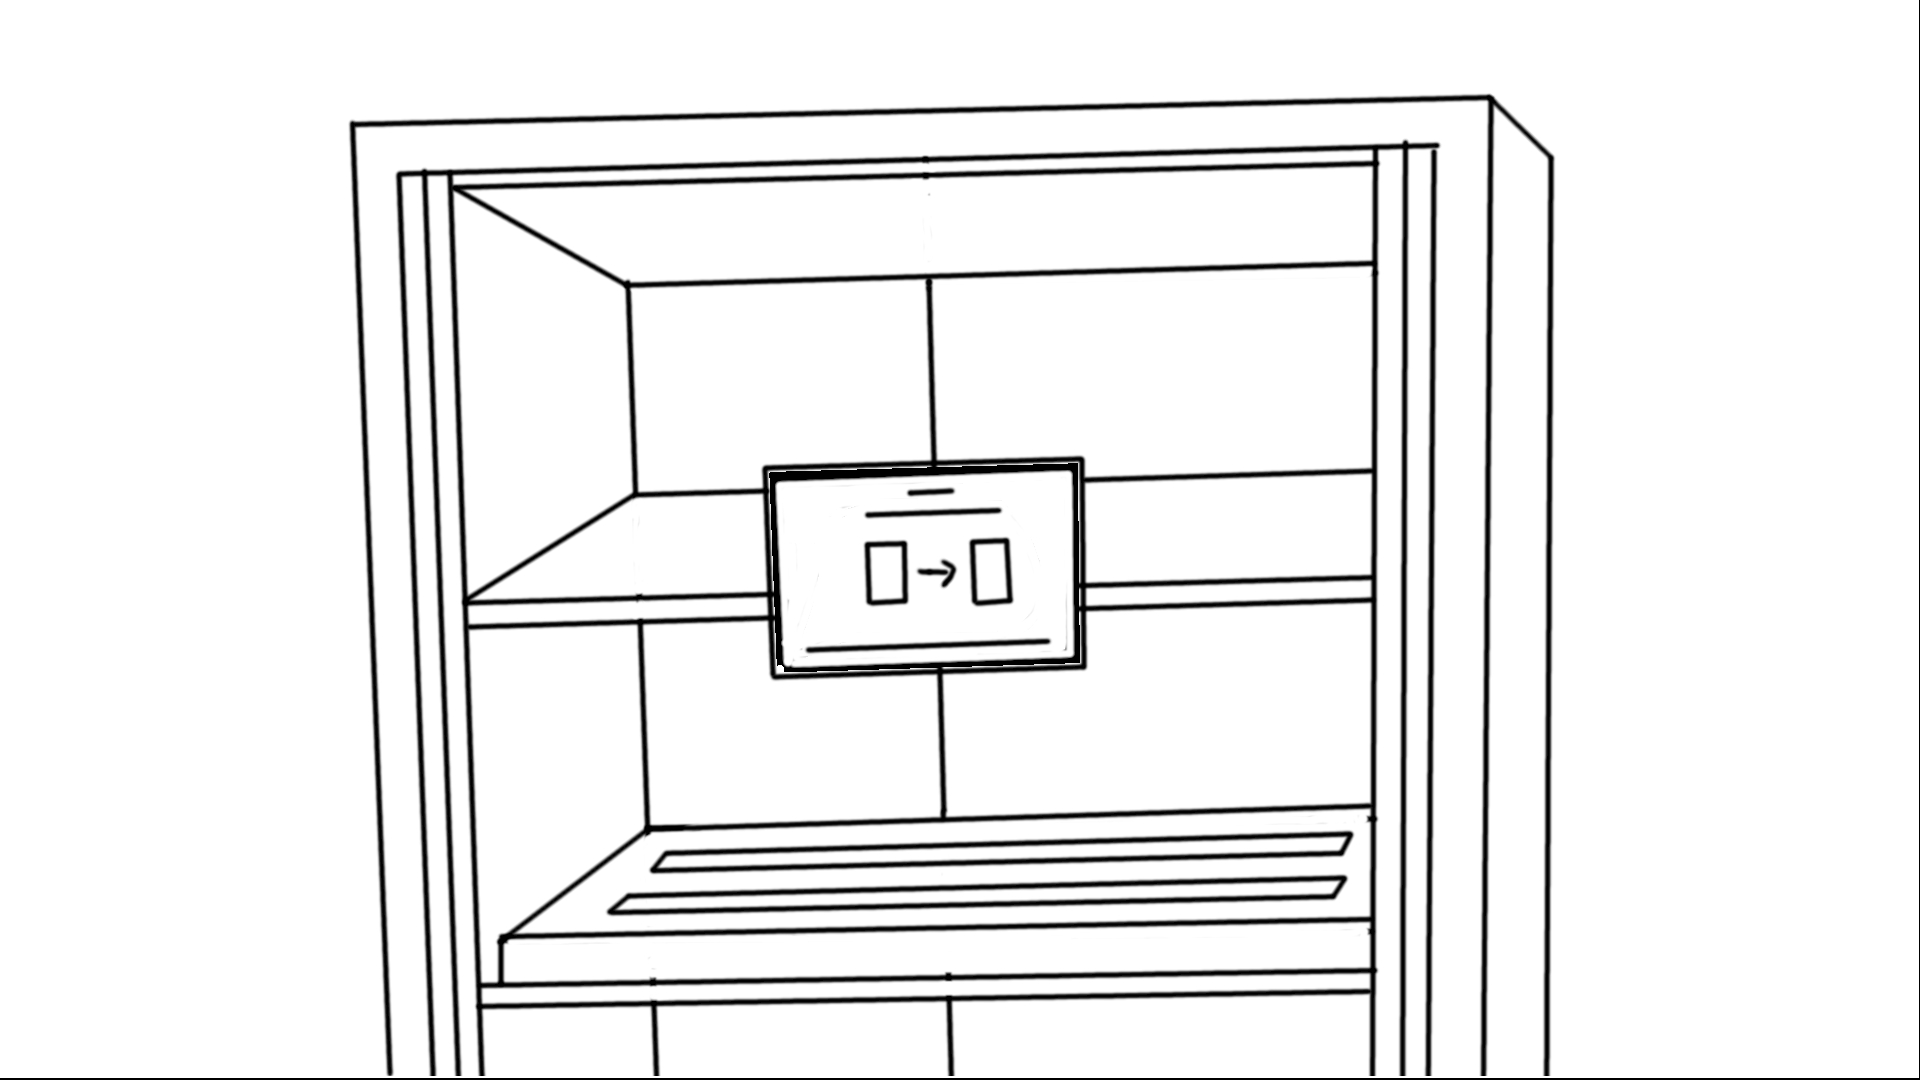
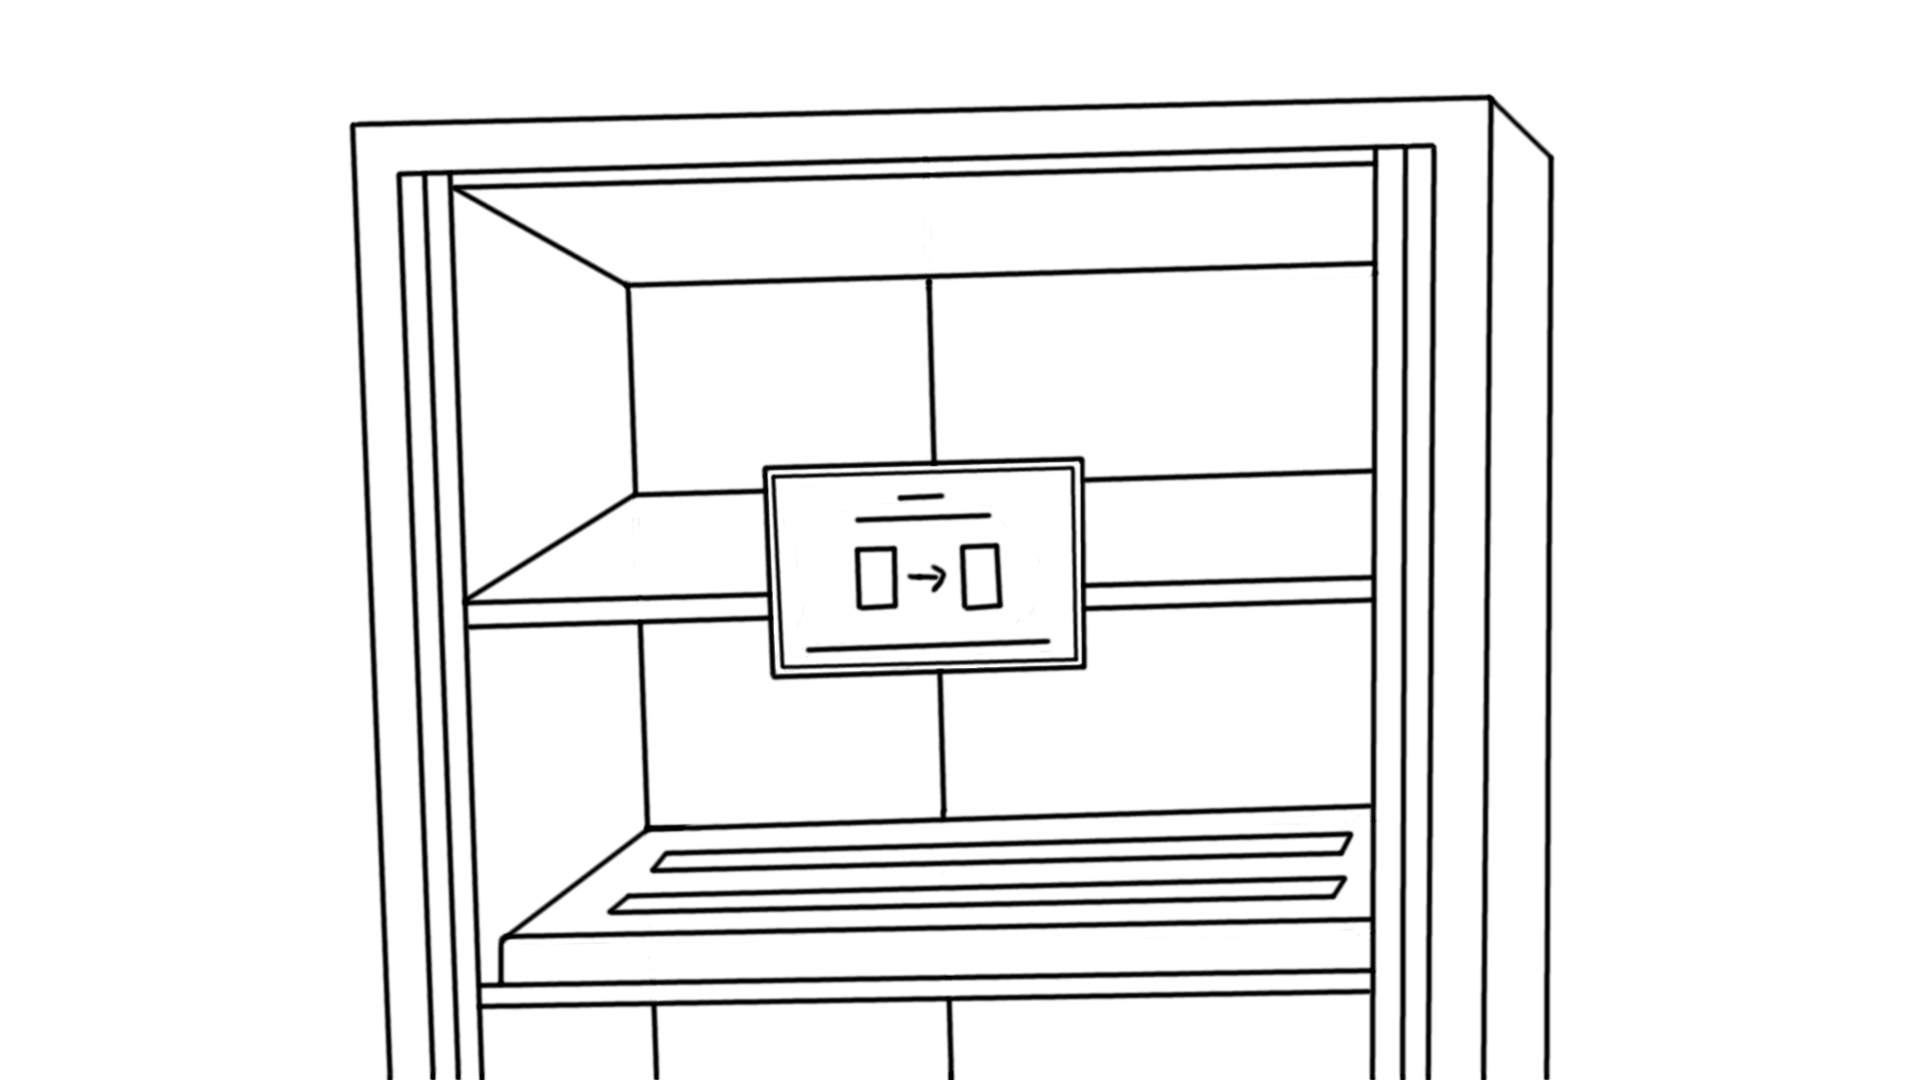
Update locker screen.

diff --git a/core/src/com/room/game/stage1/LockerScreen.kt b/core/src/com/room/game/stage1/LockerScreen.kt
@@ -25,7 +25,7 @@ class LockerScreen(
     object PhoneItem : ScreenItem(
             drawable = Drawable("locker_screen_phone.png"),
             x = 1000f,
-            y = 200f,
+            y = 208f,
             width = 134f,
             height = 123f,
             event = Event.PHONE_IN_LOCKER_CLICKED
@@ -33,19 +33,19 @@ class LockerScreen(
 
     object TabletItem : ScreenItem(
             drawable = Drawable("locker_screen_lock.png"),
-            x = 835f,
-            y = 200f,
-            width = 202f,
-            height = 278f,
+            x = 760f,
+            y = 398f,
+            width = 309f,
+            height = 244f,
             event = Event.TABLET_CLICKED
     )
 
     object LockerDoorClosed : ScreenItem(
             drawable = Drawable("locker_screen_door.png"),
-            x = 360f,
+            x = 384f,
             y = 0f,
-            width = 1104f,
-            height = 960f,
+            width = 1058f,
+            height = 948f,
             event = Event.LOCKER_DOOR_CLICKED
     )
 }
